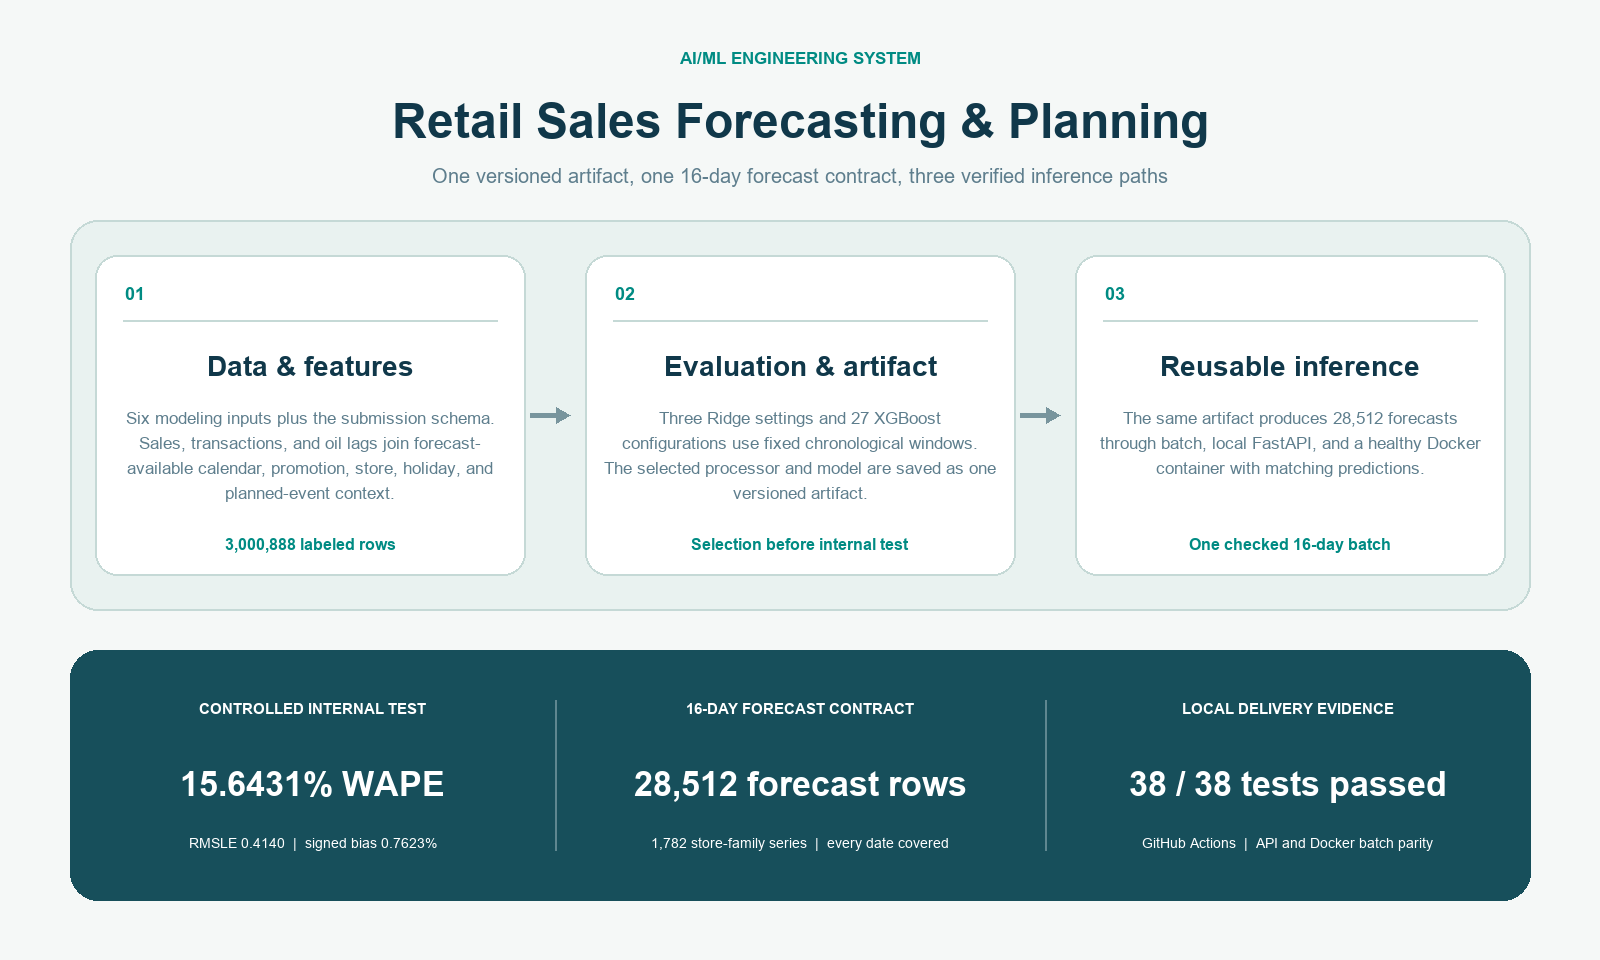
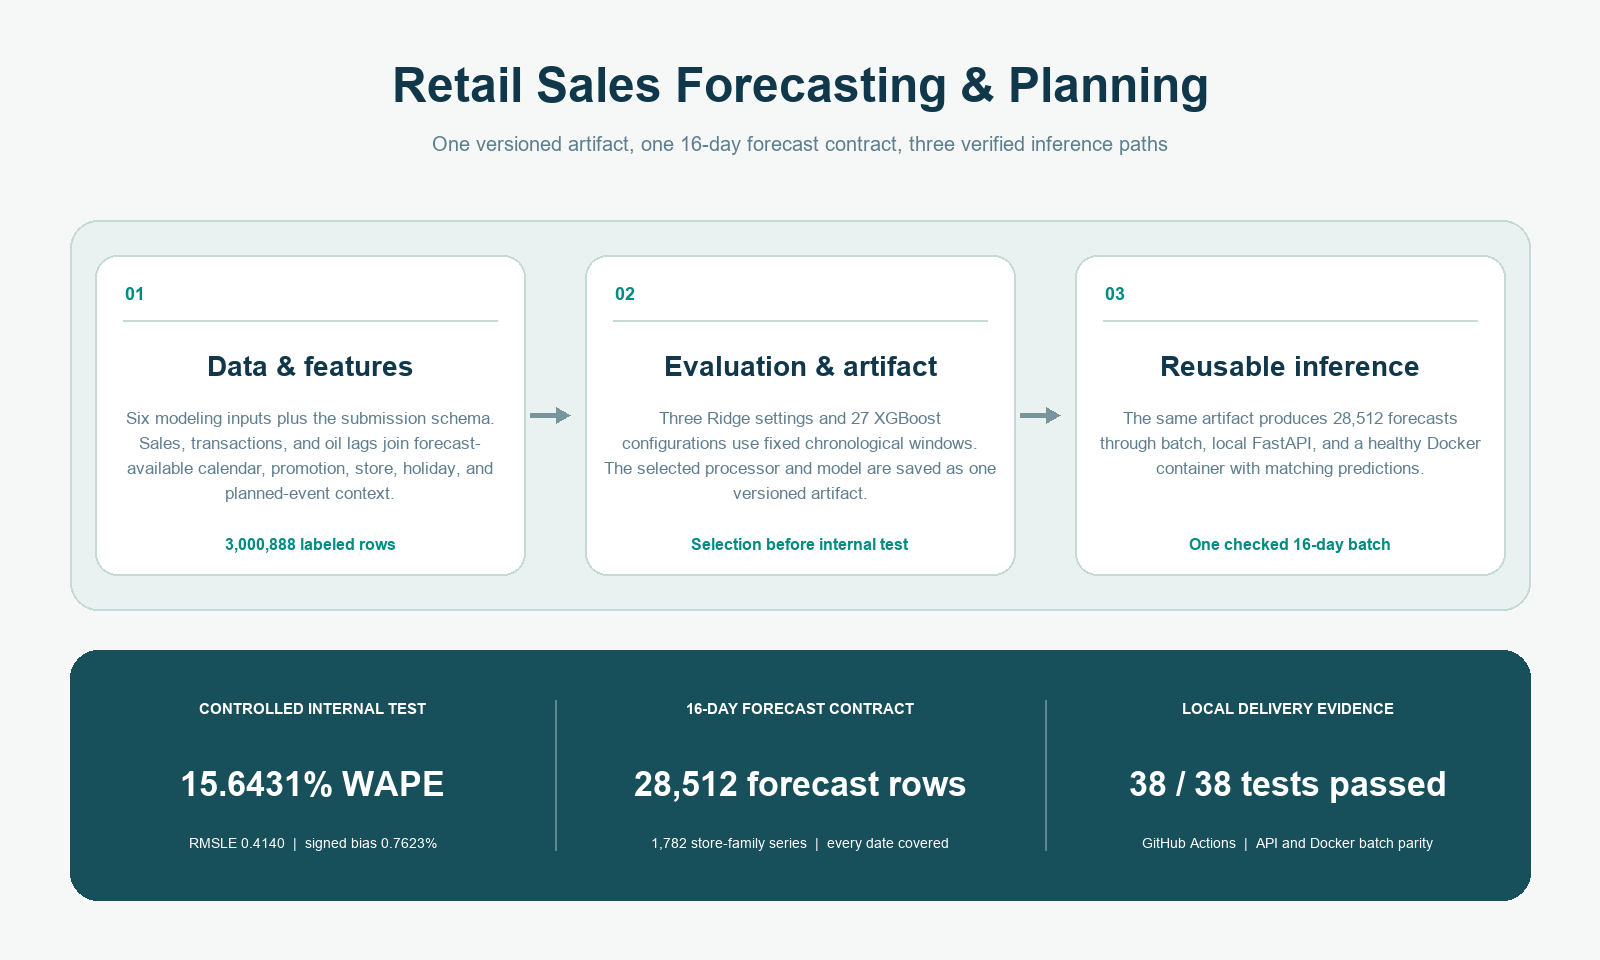
Tighten portfolio visual audit contract

Changed region(s): [[0.25, 0.0312, 0.7812, 0.1875]]

diff --git a/index.html b/index.html
@@ -238,8 +238,8 @@
               </div>
               <div class="project-result-column">
                 <figure class="project-visual">
-                  <a class="project-image-link" href="assets/projects/retail-sales-forecasting.png?v=20260816c" target="_blank" rel="noopener noreferrer" aria-label="Open the retail forecasting system visual at full size">
-                    <img src="assets/projects/retail-sales-forecasting.png?v=20260816c" alt="Retail forecasting flow from six modeling inputs and the submission schema through three Ridge settings and 27 XGBoost configurations, a versioned artifact, and matching batch, FastAPI, and Docker inference" width="1600" height="960" loading="lazy" decoding="async">
+                  <a class="project-image-link" href="assets/projects/retail-sales-forecasting.png?v=20260816d" target="_blank" rel="noopener noreferrer" aria-label="Open the retail forecasting system visual at full size">
+                    <img src="assets/projects/retail-sales-forecasting.png?v=20260816d" alt="Retail forecasting flow from six modeling inputs and the submission schema through three Ridge settings and 27 XGBoost configurations, a versioned artifact, and matching batch, FastAPI, and Docker inference" width="1600" height="960" loading="lazy" decoding="async">
                   </a>
                   <figcaption>One versioned XGBoost artifact drives the same 16-day contract across batch, FastAPI, and Docker inference.</figcaption>
                 </figure>

diff --git a/PROJECT.md b/PROJECT.md
@@ -367,6 +367,18 @@ remain readable at card size, and every number, method, system component, and
 result shown in the image must be traceable to the project's current registry
 record and source evidence.
 
+Do not place a role-family, category, or eyebrow label above the primary title
+inside a project visual. The project-card kicker already owns that information.
+The image begins with its centered project title, followed by only the subtitle,
+system or analytical story, and verified evidence needed for that visual.
+
+Before a visual is approved or published, create a factual inventory of every
+visible title, sentence, number, method count, configuration count, technology,
+metric, caption, and alt-text claim. Trace every item to the project's registry
+record and current source evidence. Then perform a separate consistency pass for
+title alignment, hierarchy, readability, terminology, dimensions, and card-size
+rendering. Passing one pass never substitutes for the other.
+
 ## Mandatory workflow before publishing or revising claims
 
 1. Read this file completely.
